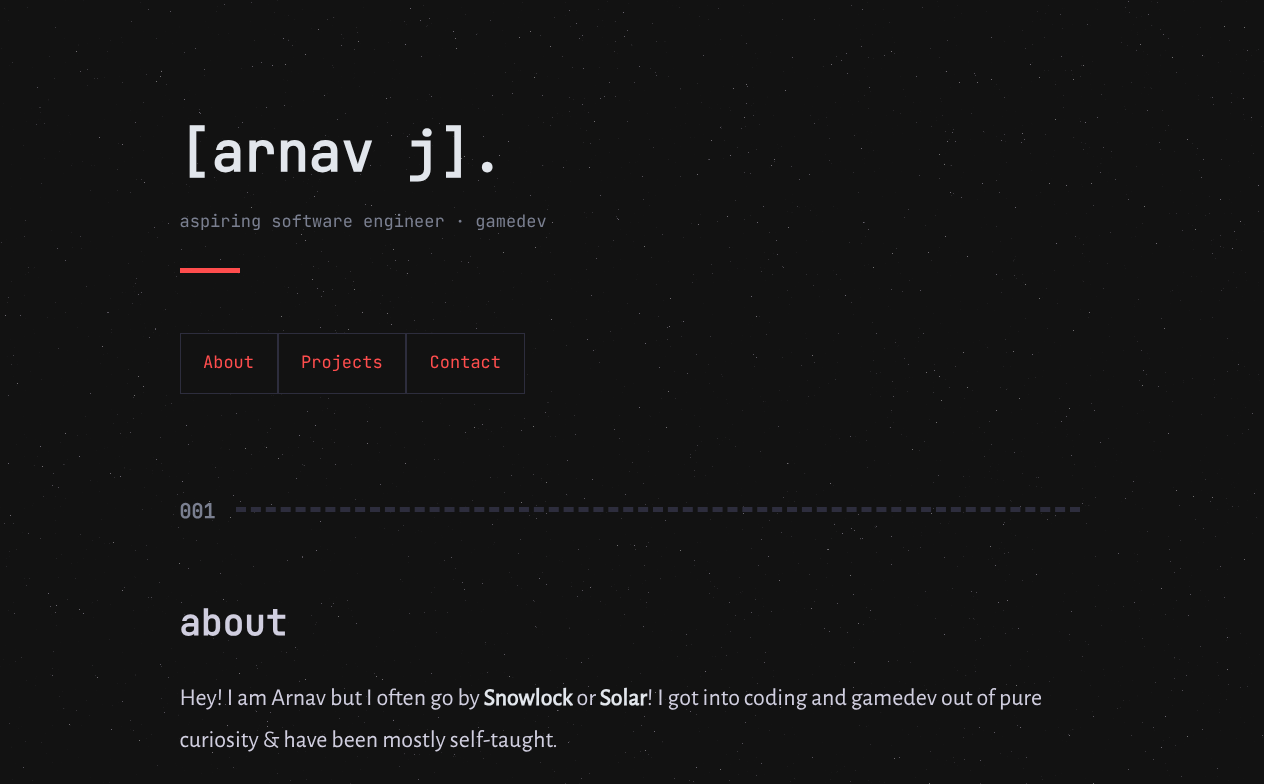
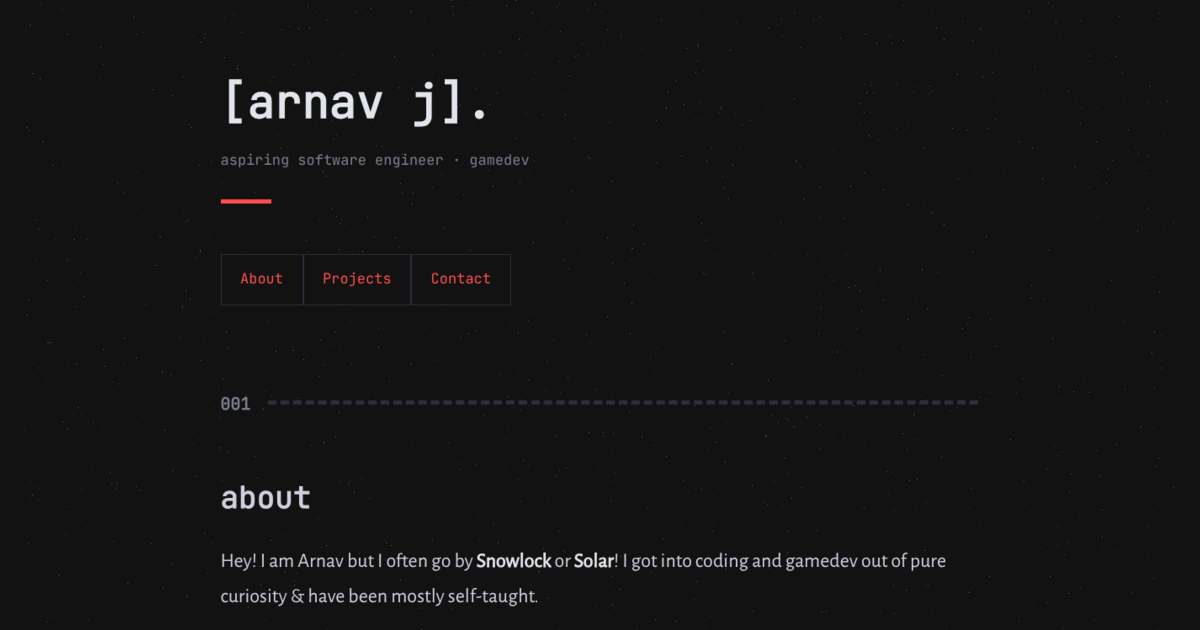
fix: improved SEO by adding <meta> image + more

diff --git a/index.html b/index.html
@@ -6,6 +6,16 @@
         <meta property="og:site_name" content="snowlock -- portfolio">
         <meta property="og:title" content="snowlock -- portfolio">
         <meta property="og:description" content="snowlock-dev's personal site!">
+
+        <meta property="og:image" content="https://snowlock-dev.github.io/portfolio-site/res/image.png">
+        <meta property="og:image:secure_url" content="https://snowlock-dev.github.io/portfolio-site/res/image.png">
+        <meta property="og:image:type" content="image/png">
+        <meta property="og:image:width" content="1200">
+        <meta property="og:image:height" content="630">
+
+        <meta name="twitter:card" content="summary_large_image">
+        <meta name="twitter:image" content="https://snowlock-dev.github.io/portfolio-site/res/image.png">
+
         <meta name="description" content="snowlock-dev's personal site!">
         <title>snowlock -- portfolio</title>
 
